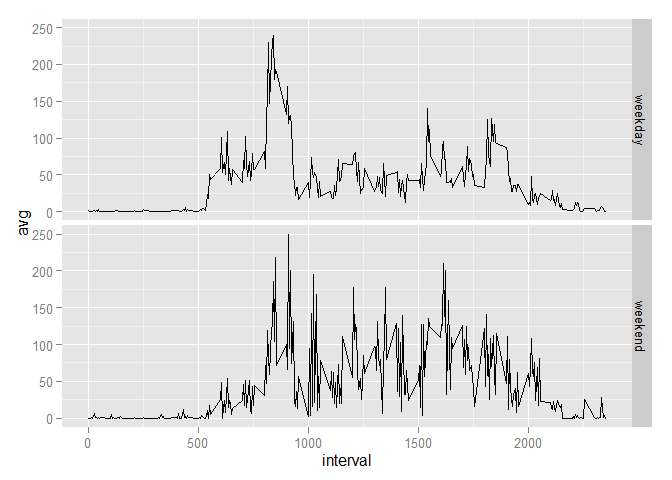
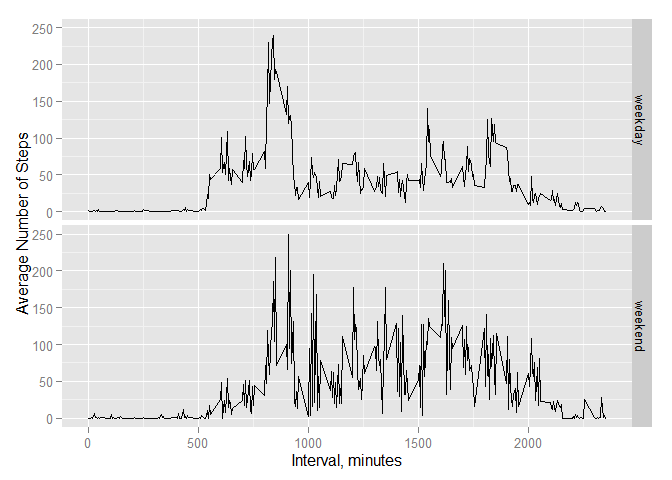
5th commit, minor change to panel plot

Changed region(s): [[0.0, 0.4062, 0.0625, 0.6562], [0.4375, 0.9375, 0.5938, 0.9688], [0.0, 0.2812, 0.0625, 0.375]]

diff --git a/PA1_template.html b/PA1_template.html
@@ -55,8 +55,8 @@ if (window.hljs && document.readyState && document.readyState === "complete") {
 </div>
 
 
-<div id="submitted-by-maander6-sat-jul-18-200631-2015" class="section level2">
-<h2>Submitted by maander6, Sat Jul 18 20:06:31 2015</h2>
+<div id="submitted-by-maander6-sat-jul-18-201236-2015" class="section level2">
+<h2>Submitted by maander6, Sat Jul 18 20:12:36 2015</h2>
 <p>Data (activity.csv) for this analysis is provided by the Reproducible Research Coursera Course Instructors. It is placed in the working directory for the analysis.</p>
 </div>
 <div id="loading-and-preprocessing-the-data" class="section level2">
@@ -188,8 +188,10 @@ if (window.hljs && document.readyState && document.readyState === "complete") {
 ## weekdays, and (2) weekends
   ggplot(data2, aes(x=interval, y=avg)) + 
         geom_line() + 
-        facet_grid(DorE ~ .)</code></pre>
[1 lines of base64/hex data omitted]
+        facet_grid(DorE ~ .) +
+        xlab(&quot;Interval, minutes&quot;) +
+        ylab(&quot;Average Number of Steps&quot;)</code></pre>
[1 lines of base64/hex data omitted]
 <p>Clearly there is a difference in the activity pattern depending on whether the data corresponds to a weekday, or to a weekend</p>
 </div>
 

diff --git a/PA1_template.md b/PA1_template.md
@@ -1,5 +1,5 @@
 # Reproducible Research: Peer Assessment 1
-##Submitted by maander6, Sat Jul 18 20:06:31 2015
+##Submitted by maander6, Sat Jul 18 20:12:36 2015
 Data  (activity.csv) for this analysis is provided by the Reproducible Research 
 Coursera Course Instructors.  It is placed in the working directory for the 
 analysis.
@@ -234,7 +234,9 @@ there are differences in the activity pattern for weekdays and weekend days.
 ## weekdays, and (2) weekends
   ggplot(data2, aes(x=interval, y=avg)) + 
         geom_line() + 
-        facet_grid(DorE ~ .)
+        facet_grid(DorE ~ .) +
+        xlab("Interval, minutes") +
+        ylab("Average Number of Steps")
 ```
 
 ![](./PA1_template_files/figure-html/Line_plot_comparison-1.png) 
